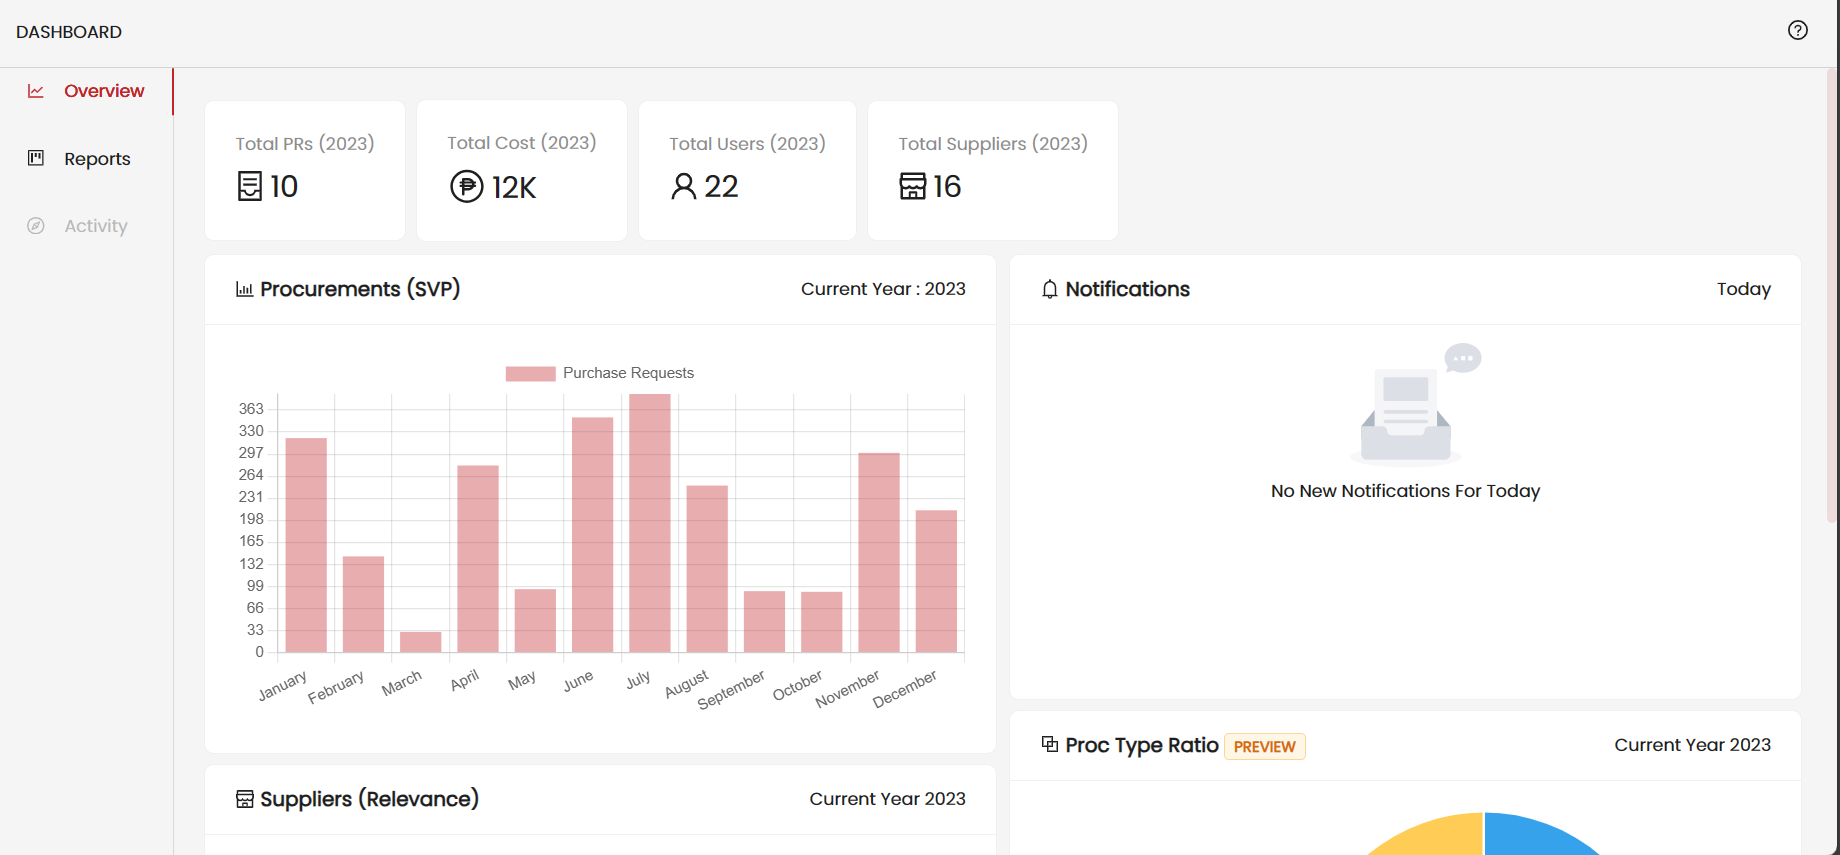
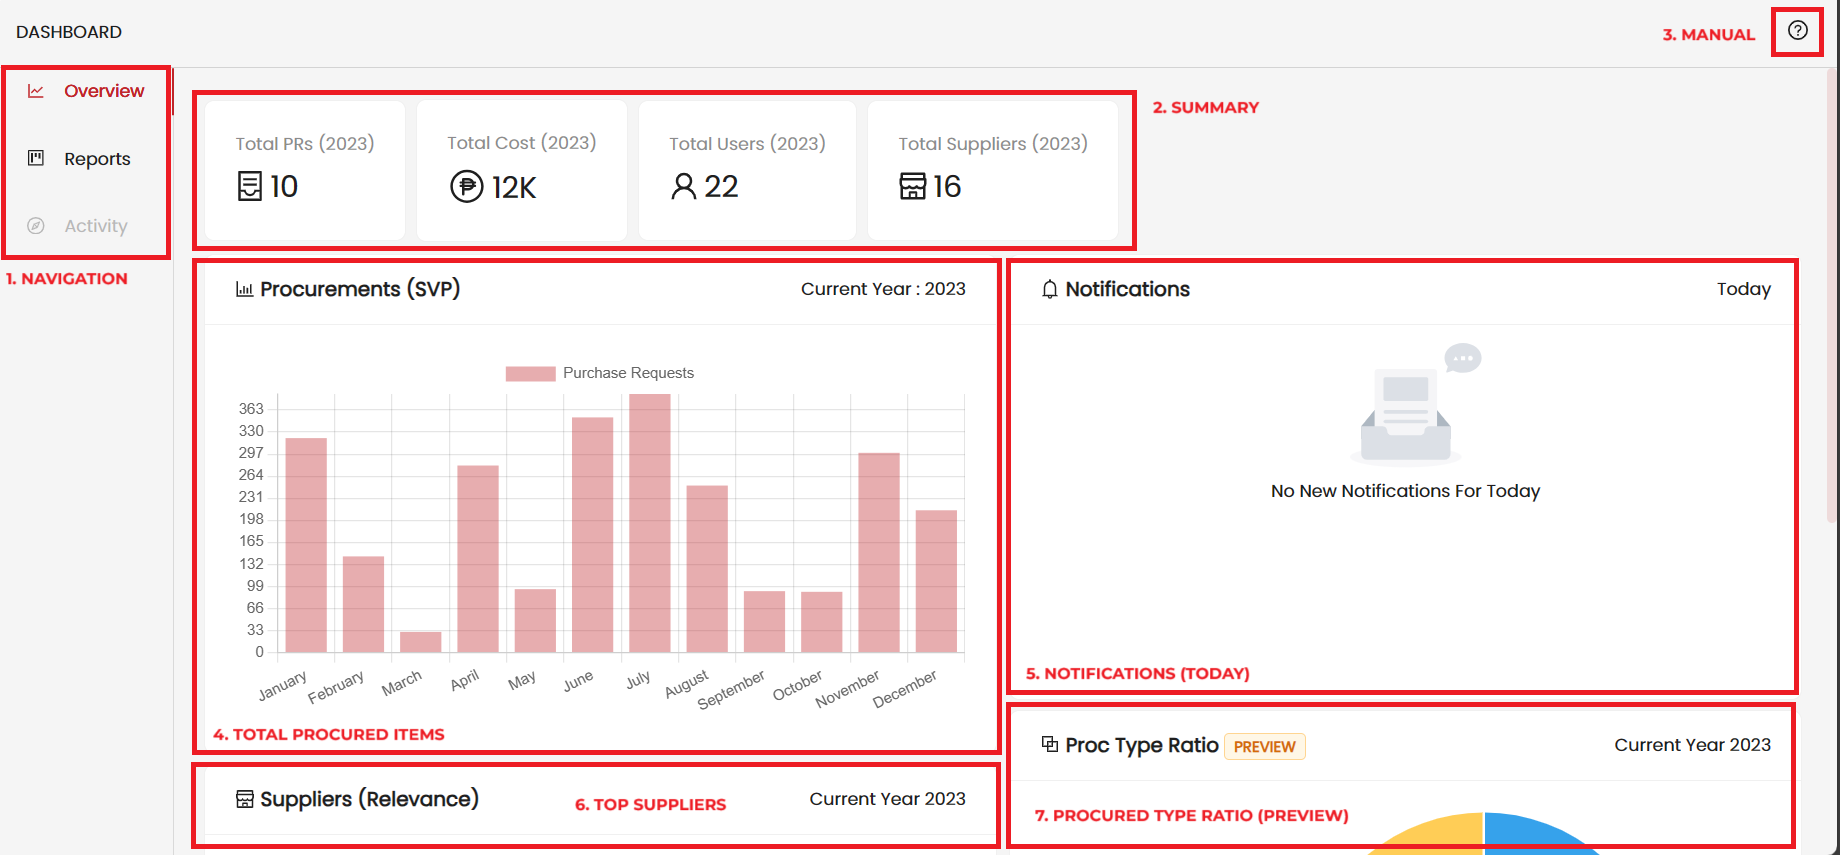
+ added li, ol, ul, em, strong,em, i,b in Markdown Element-to-Parse + ADDED Manual for Dashboard Section

diff --git a/src/lib/client/remark-gfm.tsx b/src/lib/client/remark-gfm.tsx
@@ -1,5 +1,5 @@
 import { THEME_COLORS } from "@lib/theme/constant";
-import { Divider, Typography, Image as AntImage, Skeleton } from "antd";
+import { Divider, Typography, Image as AntImage, Skeleton, List } from "antd";
 import { MDXProps } from "mdx/types";
 import Image from "next/image";
 
@@ -22,7 +22,7 @@ export const options: MDXProps = {
                 {children}
             </Typography.Paragraph>
         ),
-        hr: () => <Divider />,
+        hr: () => <Divider>* * *</Divider>,
         code: ({ children }) => <Typography.Text code>{children}</Typography.Text>,
         img: (props) => {
             return (
@@ -41,6 +41,35 @@ export const options: MDXProps = {
             <Typography.Link {...(props as any)} title={props.title} href={props.href} target={props.target}>
                 {props.children}
             </Typography.Link>
+        ),
+        ul: (props) => {
+            return <List {...(props as any)}>{props.children}</List>;
+        },
+        ol: (props) => {
+            return <List {...(props as any)}>{props.children}</List>;
+        },
+        li: (props) => {
+            return <List.Item key={props.key}>{props.children}</List.Item>;
+        },
+        strong: (props) => (
+            <Typography.Text strong {...(props as any)}>
+                {props.children}
+            </Typography.Text>
+        ),
+        b: (props) => (
+            <Typography.Text strong {...(props as any)}>
+                {props.children}
+            </Typography.Text>
+        ),
+        em: (props) => (
+            <Typography.Text italic {...(props as any)}>
+                {props.children}
+            </Typography.Text>
+        ),
+        i: (props) => (
+            <Typography.Text italic {...(props as any)}>
+                {props.children}
+            </Typography.Text>
         ),
     },
 };
